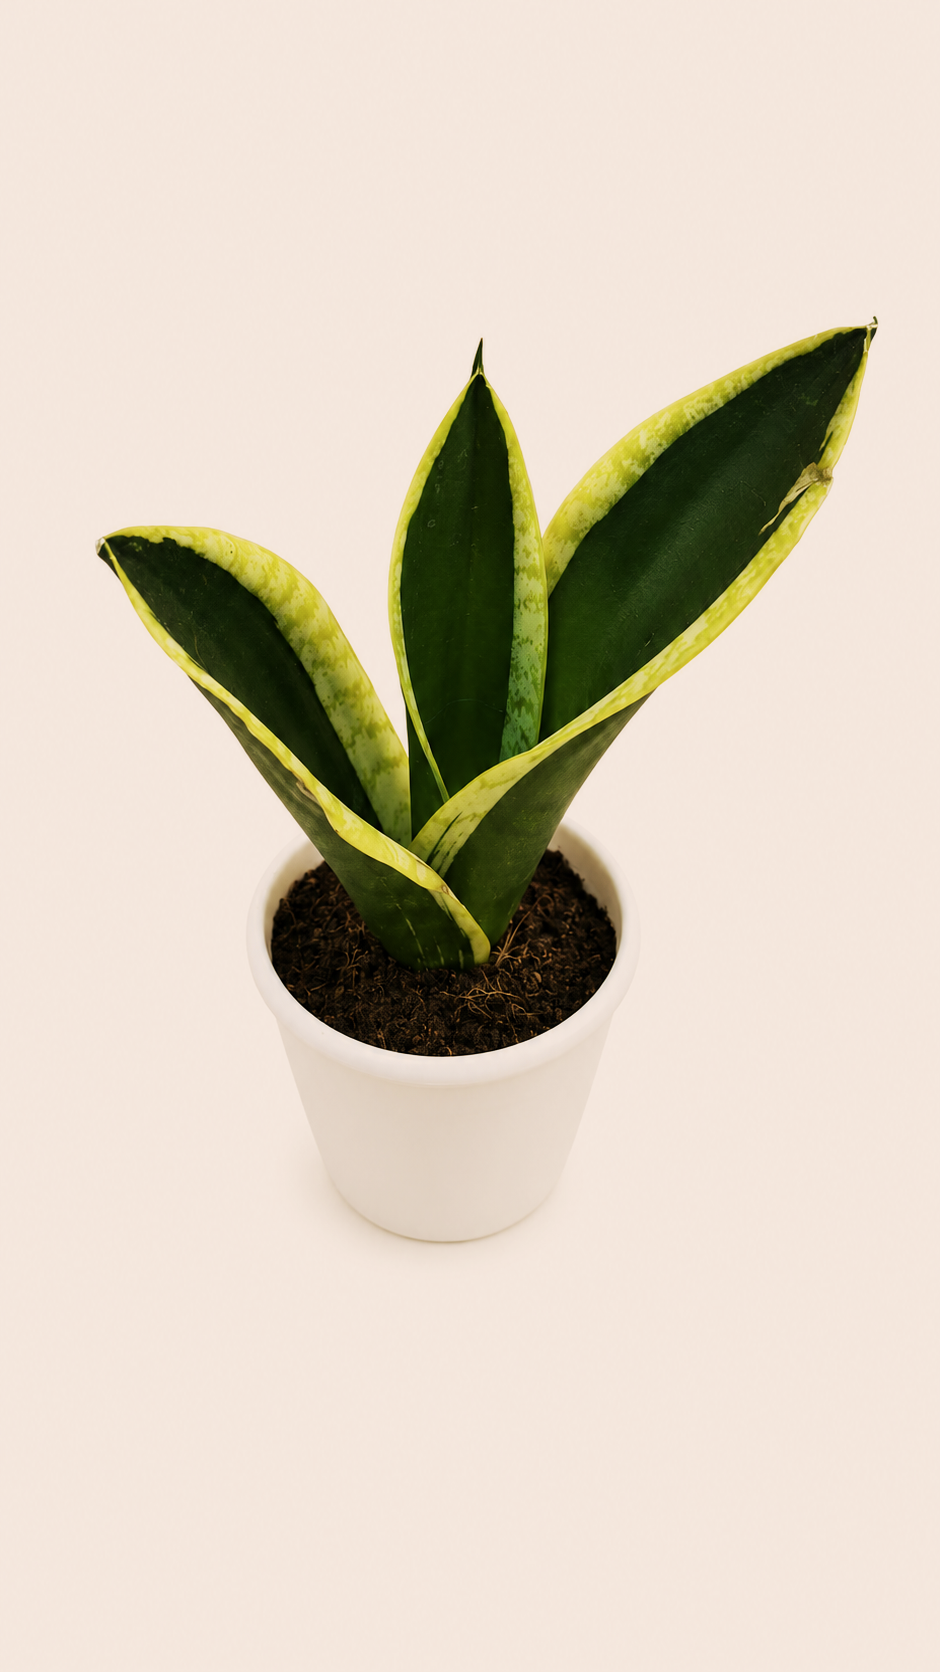
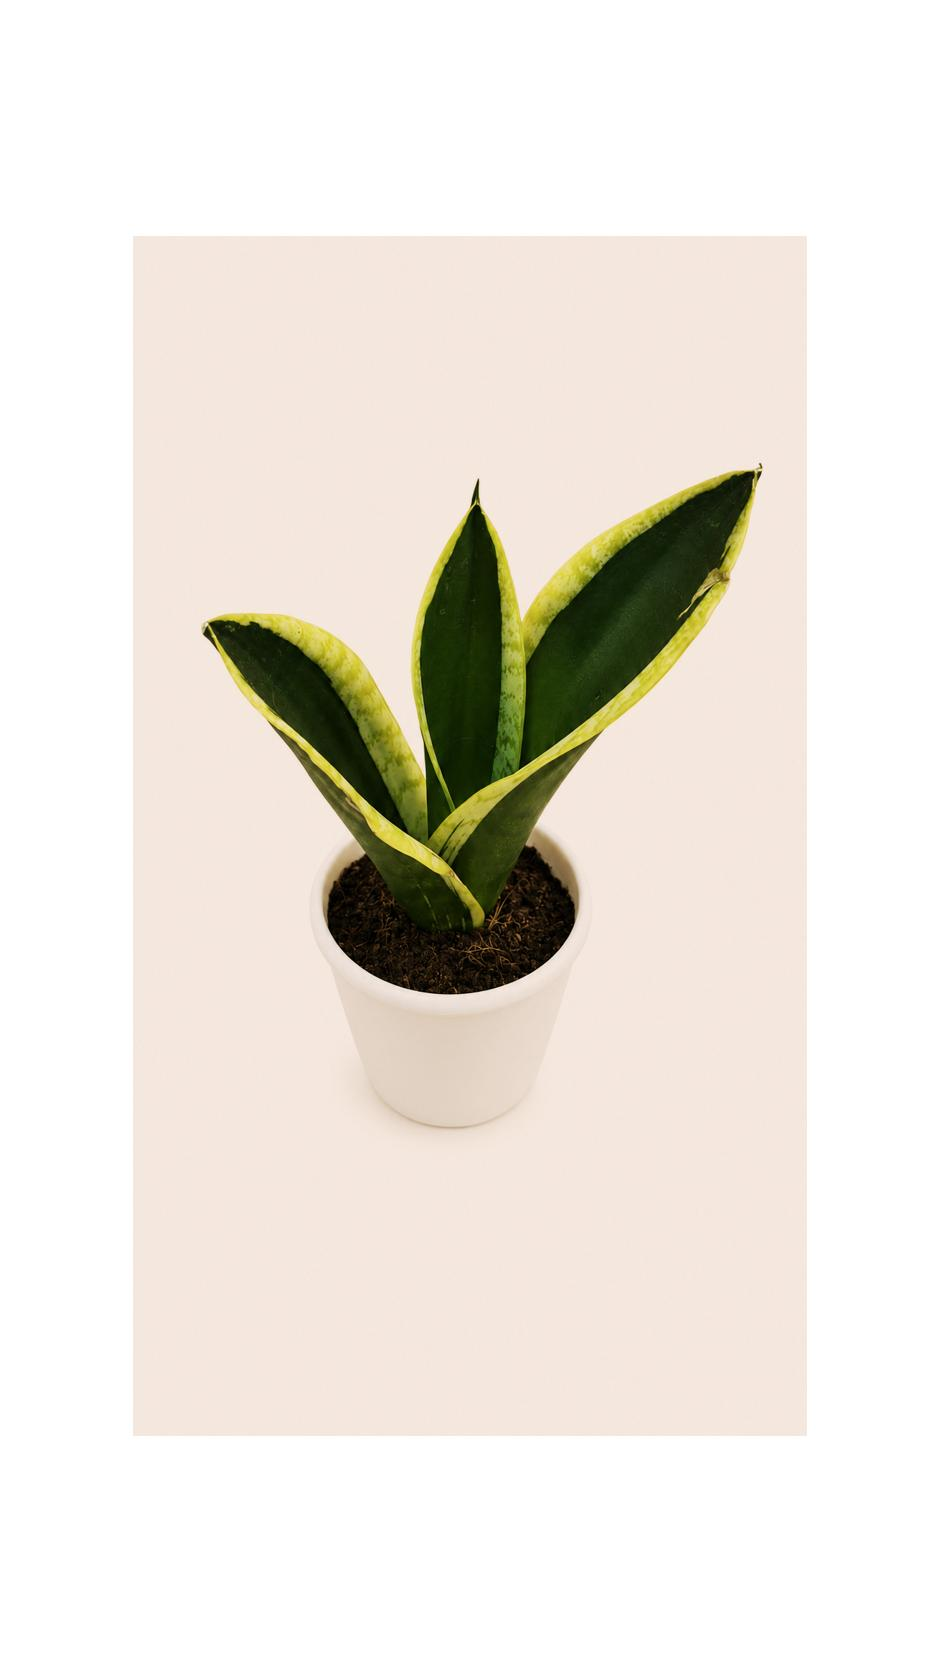
updated product images and improved product details layout

diff --git a/styles/store.css b/styles/store.css
@@ -154,7 +154,7 @@ button, input, select, textarea { font: inherit; }
 
 .hidden { display: none !important; }
 
-.product-detail { display: grid; grid-template-columns: 1.1fr .9fr; gap: 24px; align-items: start; }
+.product-detail { display: grid; grid-template-columns: 1.1fr .9fr; gap: 24px; align-items: center; }
 .product-gallery {
     display: flex;
     justify-content: center;
@@ -162,11 +162,14 @@ button, input, select, textarea { font: inherit; }
 }
 
 .product-gallery img {
-    border-radius: 24px;
     width: 320px;
     height: 360px;
     object-fit: contain;
+    object-position: center;
+    display: block;
+    margin: auto;
 }
+
 .detail-card, .summary-card, .auth-card, .admin-card, .contact-card { background: var(--panel); border: 1px solid var(--border); border-radius: 24px; padding: 22px; box-shadow: var(--shadow); }
 
 .qty-row { display: flex; align-items: center; gap: 10px; margin: 16px 0; }
